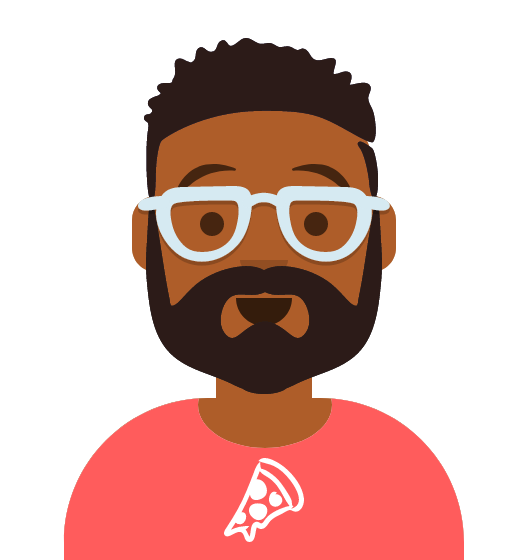
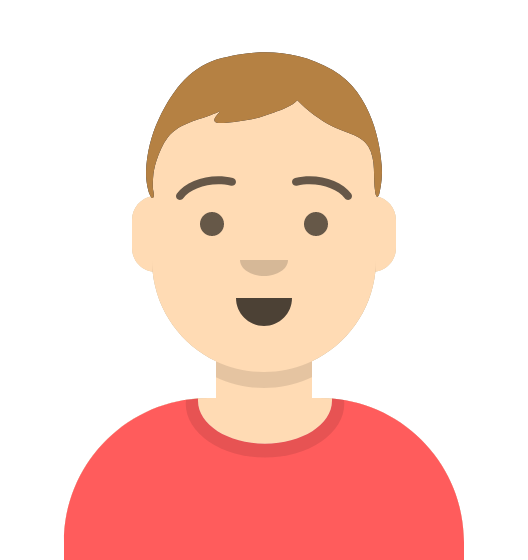
Add | Feature to choose a profile picture;

Changed region(s): [[0.2424, 0.0607, 0.7576, 0.9714]]

diff --git a/src/application/controller/ProfilePictureController.java b/src/application/controller/ProfilePictureController.java
@@ -1,0 +1,130 @@
+package application.controller;
+
+import application.Main;
+import application.model.User;
+import javafx.event.EventHandler;
+import javafx.fxml.FXML;
+import javafx.fxml.FXMLLoader;
+import javafx.scene.Node;
+import javafx.scene.Scene;
+import javafx.scene.control.RadioButton;
+import javafx.scene.image.Image;
+import javafx.scene.image.ImageView;
+import javafx.scene.input.MouseEvent;
+import javafx.scene.layout.Pane;
+
+import java.io.IOException;
+
+/**
+ * The ProfilePictureController class is the primary controller dedicated to the
+ * ProfilePicture view of the application. When the ProfilePicture scene is staged,
+ * the initialize method sets the 'Current Profile Picture' to display the picture
+ * the active User is currently using. The User is then able to choose an alternative
+ * image to use, if they wish. Once the changes are saved, the image is saved to the
+ * User and they are redirected back to the Dashboard.
+ *
+ * @author TJ English (pcb408)
+ * UTSA CS 3443 - Zodial (Group Project)
+ * Fall 2021
+ */
+public class ProfilePictureController implements EventHandler<MouseEvent> {
+
+    @FXML private Pane profPicPane;
+    @FXML private ImageView currProfPic;
+    @FXML private RadioButton picRadio1;
+    @FXML private RadioButton picRadio2;
+    @FXML private RadioButton picRadio3;
+    @FXML private RadioButton picRadio4;
+    @FXML private RadioButton picRadio5;
+    @FXML private RadioButton picRadio6;
+
+
+    /**
+     * Method: handle
+     * ----------------
+     * Handles the Save Changes event that happens in the view. When the user clicks on
+     * either the Save Changes or Cancel option in the view, the handle method will take
+     * the user back to the Dashboard. If the User chose Save Changes, the handle method
+     * will determine which image option was selected by the user. The method then saves
+     * the path to that image to the User before redirecting to the Dashboard.
+     *
+     *      @param event:   onClick event of a button/hyperlink in the view.
+     *
+     * Returns: N/A
+     */
+    @FXML
+    @Override
+    public void handle(MouseEvent event) {
+        try {
+            Node clickedOption = (Node) event.getSource();
+            if (!clickedOption.getId().equalsIgnoreCase("cancel")) {
+                String optionChosen = "";
+
+                for (int i = 1; i <= 6; i++) {
+                    RadioButton currentRadio = (RadioButton) event.getSource();
+                    boolean isSelected = currentRadio.isSelected();
+                    if (isSelected) {
+                        optionChosen = currentRadio.getId();
+                        break;
+                    }
+                }
+
+                User.ACTIVE_USER.setProfilePicPath("../../../images/" + optionChosen + "_avatar.png");
+            }
+
+            Scene scene = new Scene(FXMLLoader.load(getClass().getResource("../view/Dashboard.fxml")));
+            Main.stage.setScene(scene);
+            Main.stage.show();
+        } catch (IOException e) {
+            e.printStackTrace();
+        }
+    }
+
+    /**
+     * Method: initialize
+     * -----------------
+     * Sets the 'Current Profile Picture' to display the picture the active
+     * User is currently using.
+     *
+     * Returns: N/A
+     */
+    @FXML
+    private void initialize() {
+        currProfPic.setImage(new Image(User.ACTIVE_USER.getProfilePicPath()));
+    }
+
+    /**
+     * Method: radioButtonSelector
+     * -----------------
+     * Sets the selected RadioButton depending on the radio or image option the
+     * User has chosen, after clearing any previously-selected radios.
+     *
+     * Returns: N/A
+     */
+    @FXML
+    private void radioButtonSelector(MouseEvent event) {
+        Node optionChosen = (Node) event.getSource();
+        int idLength = optionChosen.getId().length();
+        int optionNumberChosen = optionChosen.getId().charAt(idLength - 1);
+
+        clearRadioSelections();
+
+        ((RadioButton) profPicPane.lookup("picRadio" + optionNumberChosen)).setSelected(true);
+    }
+
+    /**
+     * Method: clearRadioSelections
+     * -----------------
+     * Sets the 'selected' value of all radio buttons to false.
+     *
+     * Returns: N/A
+     */
+    private void clearRadioSelections() {
+        picRadio1.setSelected(false);
+        picRadio2.setSelected(false);
+        picRadio3.setSelected(false);
+        picRadio4.setSelected(false);
+        picRadio5.setSelected(false);
+        picRadio6.setSelected(false);
+    }
+}

diff --git a/src/application/controller/DashboardController.java b/src/application/controller/DashboardController.java
@@ -1,6 +1,7 @@
 package application.controller;
 
 
+import java.io.IOException;
 import java.net.URL;
 import java.util.ResourceBundle;
 import application.Main;
@@ -48,6 +49,17 @@ public class DashboardController implements Initializable {
     		eventBox.getChildren().add(label);
     	}
     }
+
+    @FXML
+	private void launchPictureSelector() {
+		try {
+			Scene scene = new Scene(FXMLLoader.load(getClass().getResource("../view/ProfilePicture.fxml")));
+			Main.stage.setScene(scene);
+			Main.stage.show();
+		} catch (IOException e) {
+			e.printStackTrace();
+		}
+	}
     
     public void addEvent(ActionEvent event) {
     	//TODO addEvents once the addEvent Scene and controller are completed.

diff --git a/src/application/model/User.java b/src/application/model/User.java
@@ -49,7 +49,7 @@ public class User {
         this.username = username;
         this.password = password;
         this.name = name;
-        this.profilePicPath = "@../../../data/blank-profile-picture-973460_1280.png";
+        this.profilePicPath = "@../../../images/default-profile-picture.png";
         this.events = new ArrayList<>();
     }
 
@@ -110,7 +110,7 @@ public class User {
     	
     	return false;
     }
-    
+
     public static boolean createUser( String username, String password, String firstName, String lastName )
     {
     	File userFile = new File("data/users.txt");
